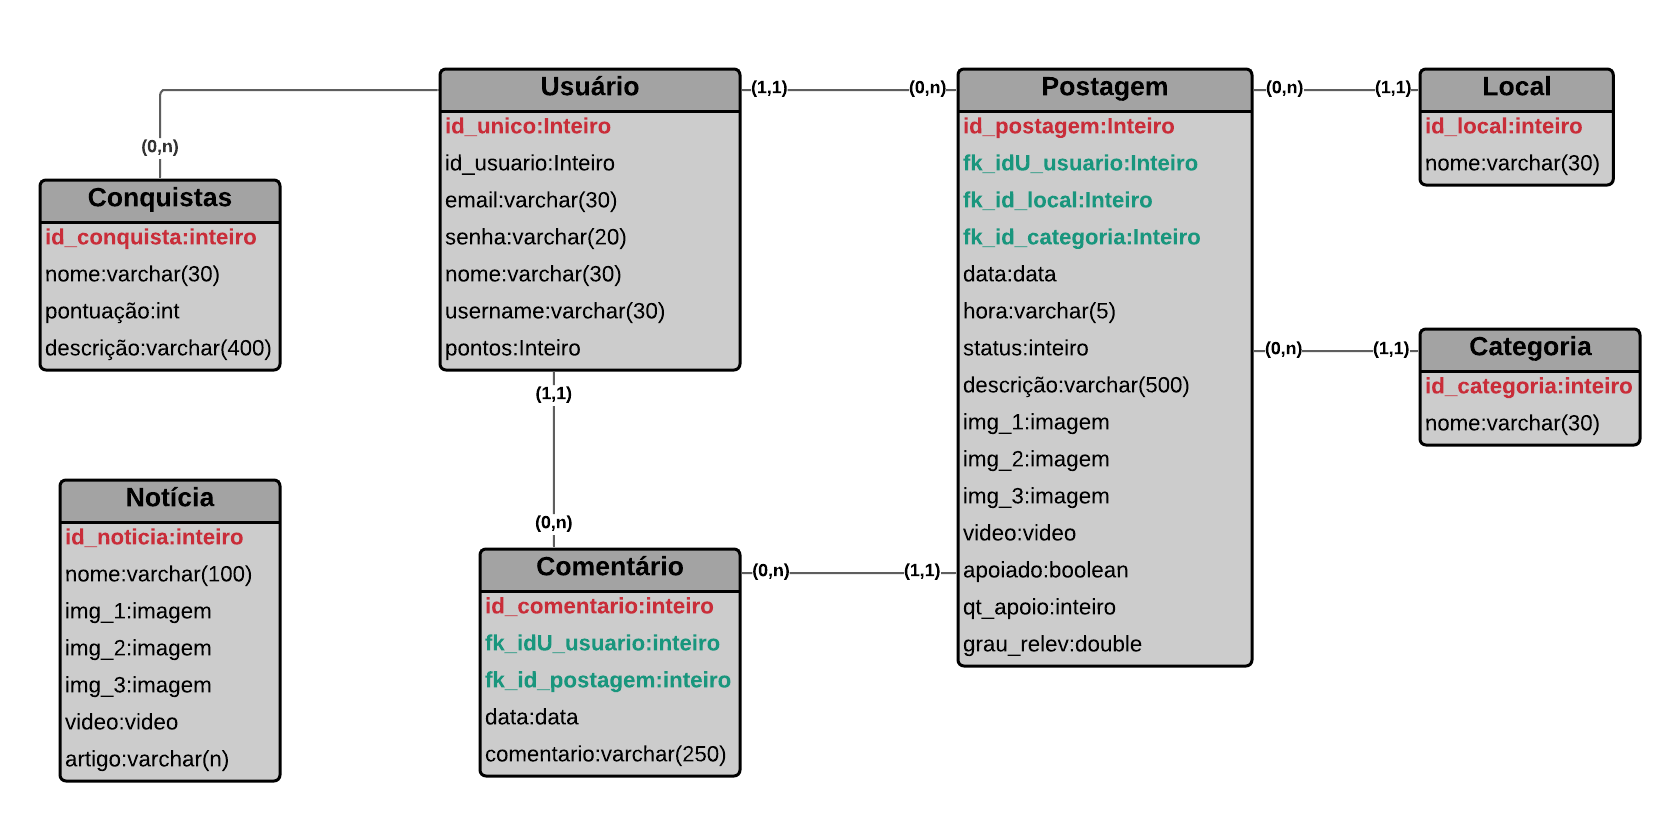
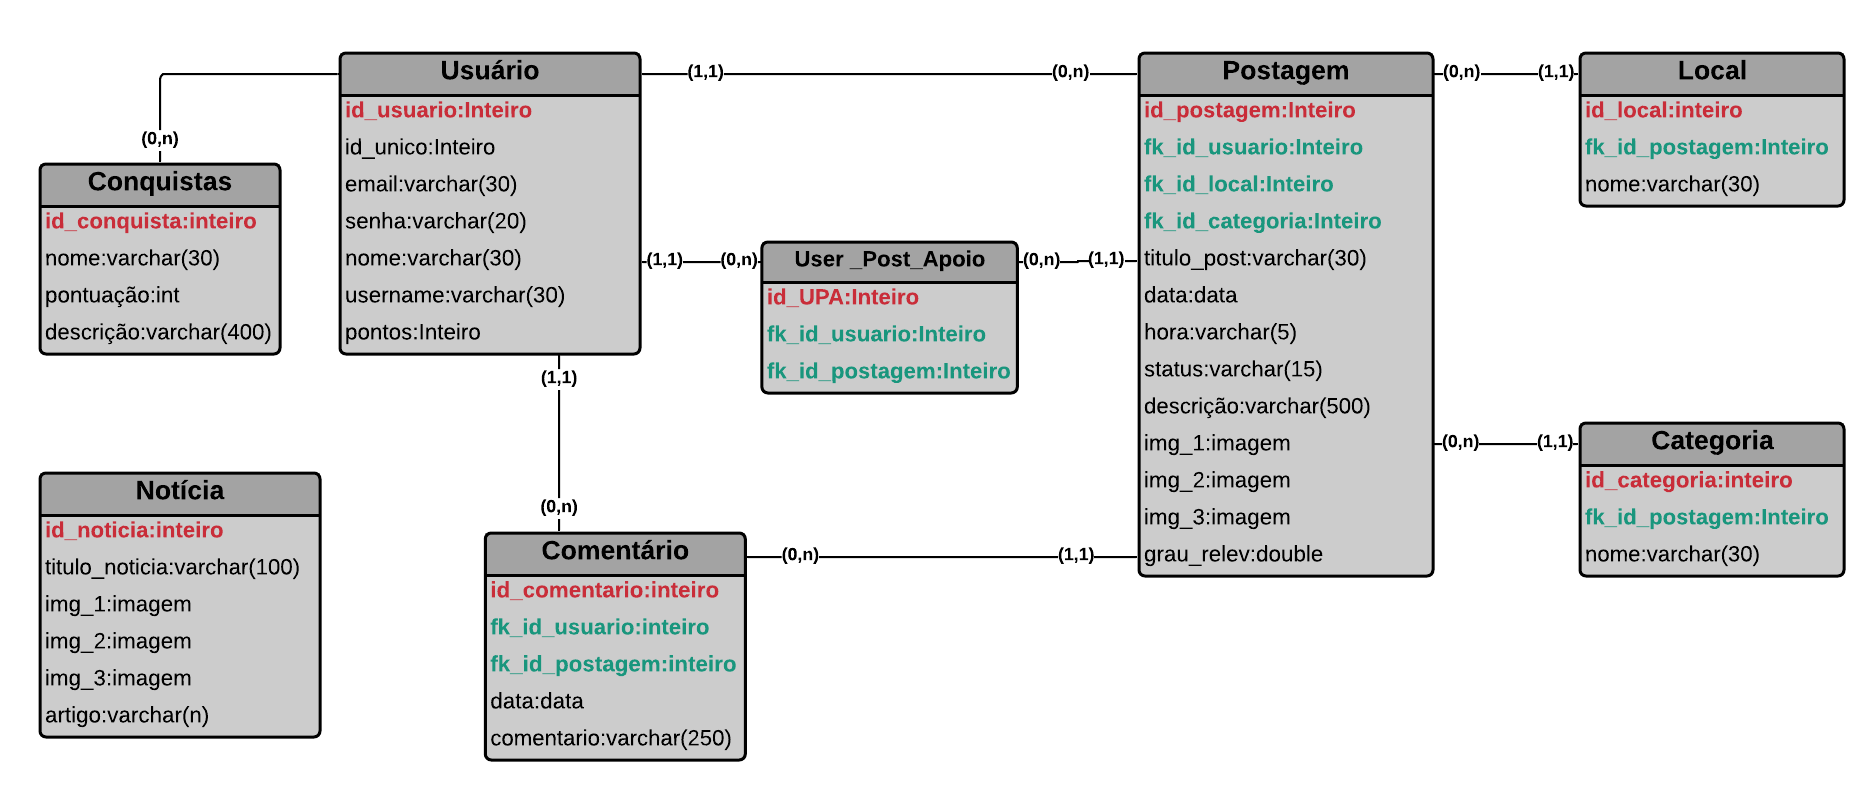
#64 Atualizando o item 2.3.1 do documento de arquitetura.

diff --git a/docs/Documento_de_Arquitetura.md b/docs/Documento_de_Arquitetura.md
@@ -8,7 +8,8 @@ Data|Versão|Descrição|Autor
 15/09|1.0.2|Inserção dos requisitos nos casos de uso | Enzo Gabriel
 15/09| 1.0.3 | Adição das representações de arquitetura de back-end e front-end e das restrições | Enzo Gabriel
 20/09| 2.0.0 | Refatoração do documento: exclusão de tópico fora do padrão e correção de titulação, representação de arquitetura, metas e restrições e visão dos casos de uso | Daniel Porto e Enzo Gabriel
-22/09|2.1.0| Atualização do item 2
+22/09|2.1.0| Atualização do item 2 | Daniel Porto
+22/09|2.1.1| Atualização do item 2.3.1 | Daniel Porto
 
 ## 1. Introdução
 
